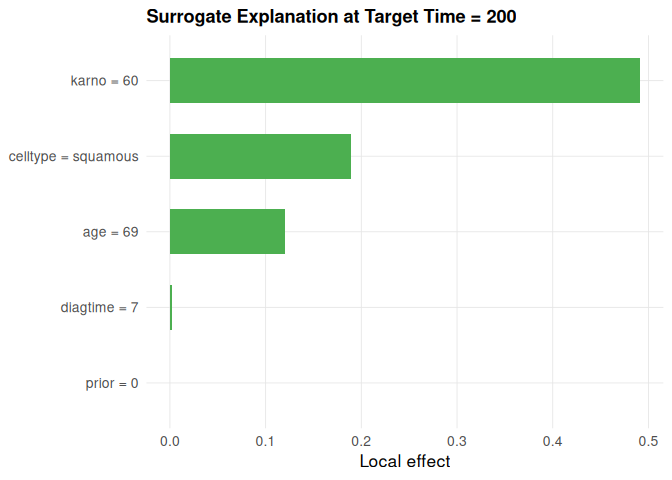
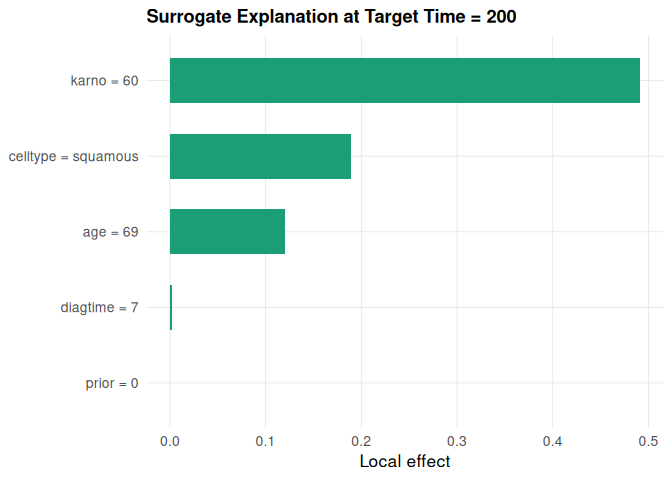
Re-knit README with the fixed heatmap and unified plot colors

Changed region(s): [[0.25, 0.0938, 0.9688, 0.2188], [0.25, 0.2812, 0.5312, 0.375], [0.25, 0.4375, 0.4375, 0.5312]]

diff --git a/README.md b/README.md
@@ -314,14 +314,14 @@ bench_res <- benchmark(
   )
 
 summarise_benchmark(bench_res)
-#>    learner metric      mean          sd     n          se     lower     upper
-#>     <char> <char>     <num>       <num> <int>       <num>     <num>     <num>
-#> 1:   coxph cindex 0.7306667 0.032593455     3 0.018817840 0.6937837 0.7675496
-#> 2:   coxph    ibs 0.1790000 0.009539392     3 0.005507571 0.1682052 0.1897948
-#> 3:   rpart cindex 0.7073333 0.029670412     3 0.017130220 0.6737581 0.7409086
-#> 4:   rpart    ibs 0.2160000 0.010816654     3 0.006244998 0.2037598 0.2282402
-#> 5:  ranger cindex 0.6863333 0.047815618     3 0.027606360 0.6322249 0.7404418
-#> 6:  ranger    ibs 0.1976667 0.005507571     3 0.003179797 0.1914343 0.2038991
+#>    learner metric  mean    sd     n    se lower upper
+#>     <char> <char> <num> <num> <int> <num> <num> <num>
+#> 1:   coxph cindex 0.731 0.033     3 0.019 0.694 0.768
+#> 2:   coxph    ibs 0.179 0.010     3 0.006 0.168 0.190
+#> 3:   rpart cindex 0.707 0.030     3 0.017 0.674 0.741
+#> 4:   rpart    ibs 0.216 0.011     3 0.006 0.204 0.228
+#> 5:  ranger cindex 0.686 0.048     3 0.028 0.632 0.740
+#> 6:  ranger    ibs 0.198 0.006     3 0.003 0.191 0.204
 plot_benchmark(bench_res)
 ```
 
